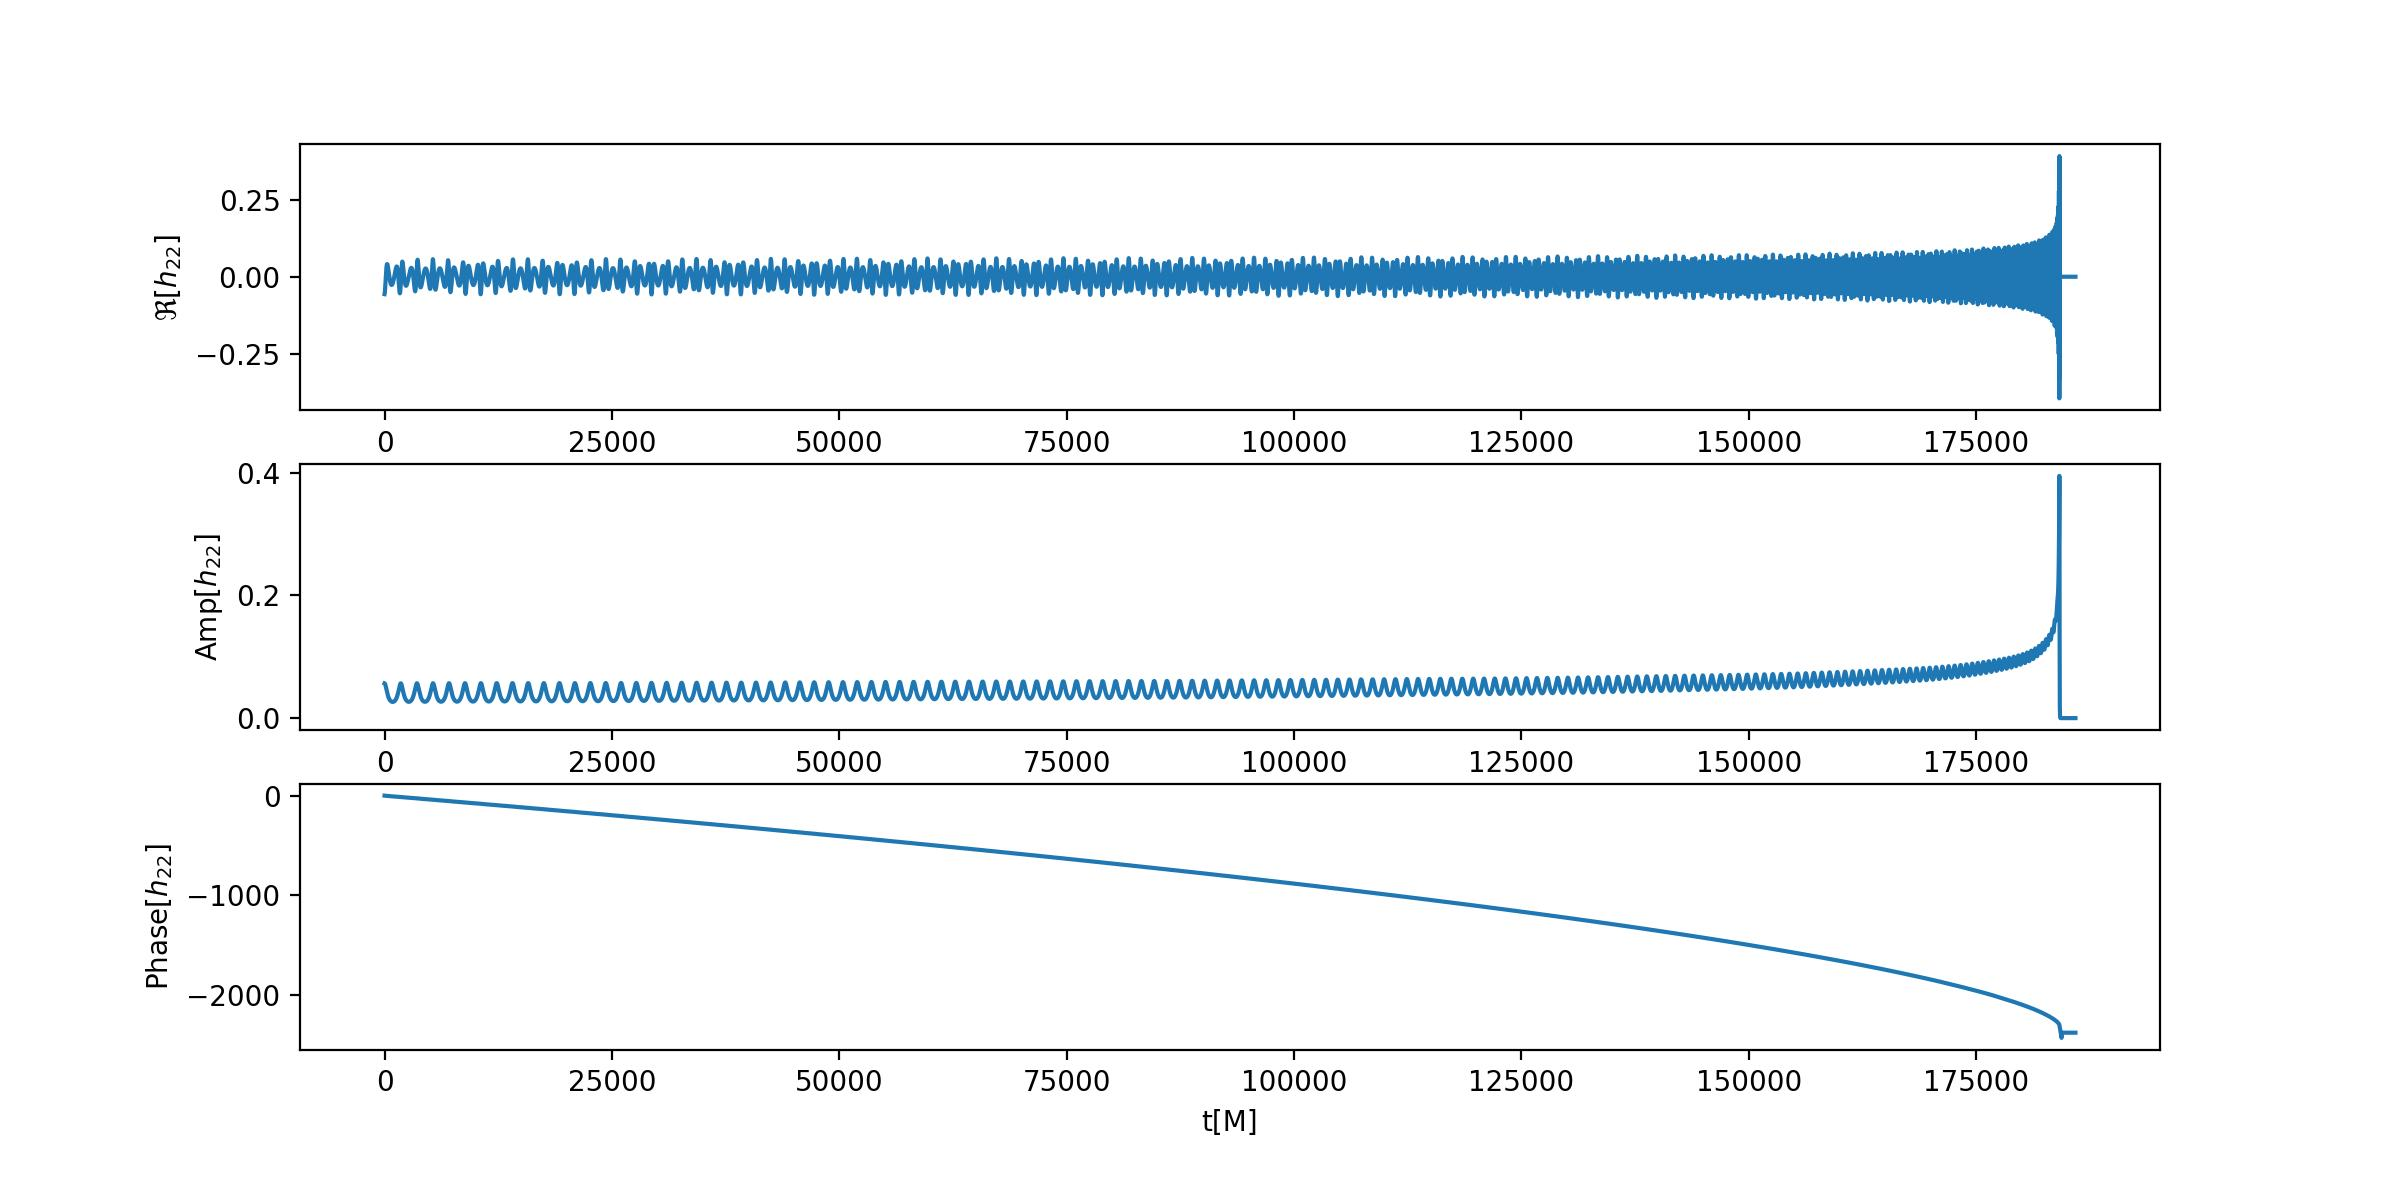
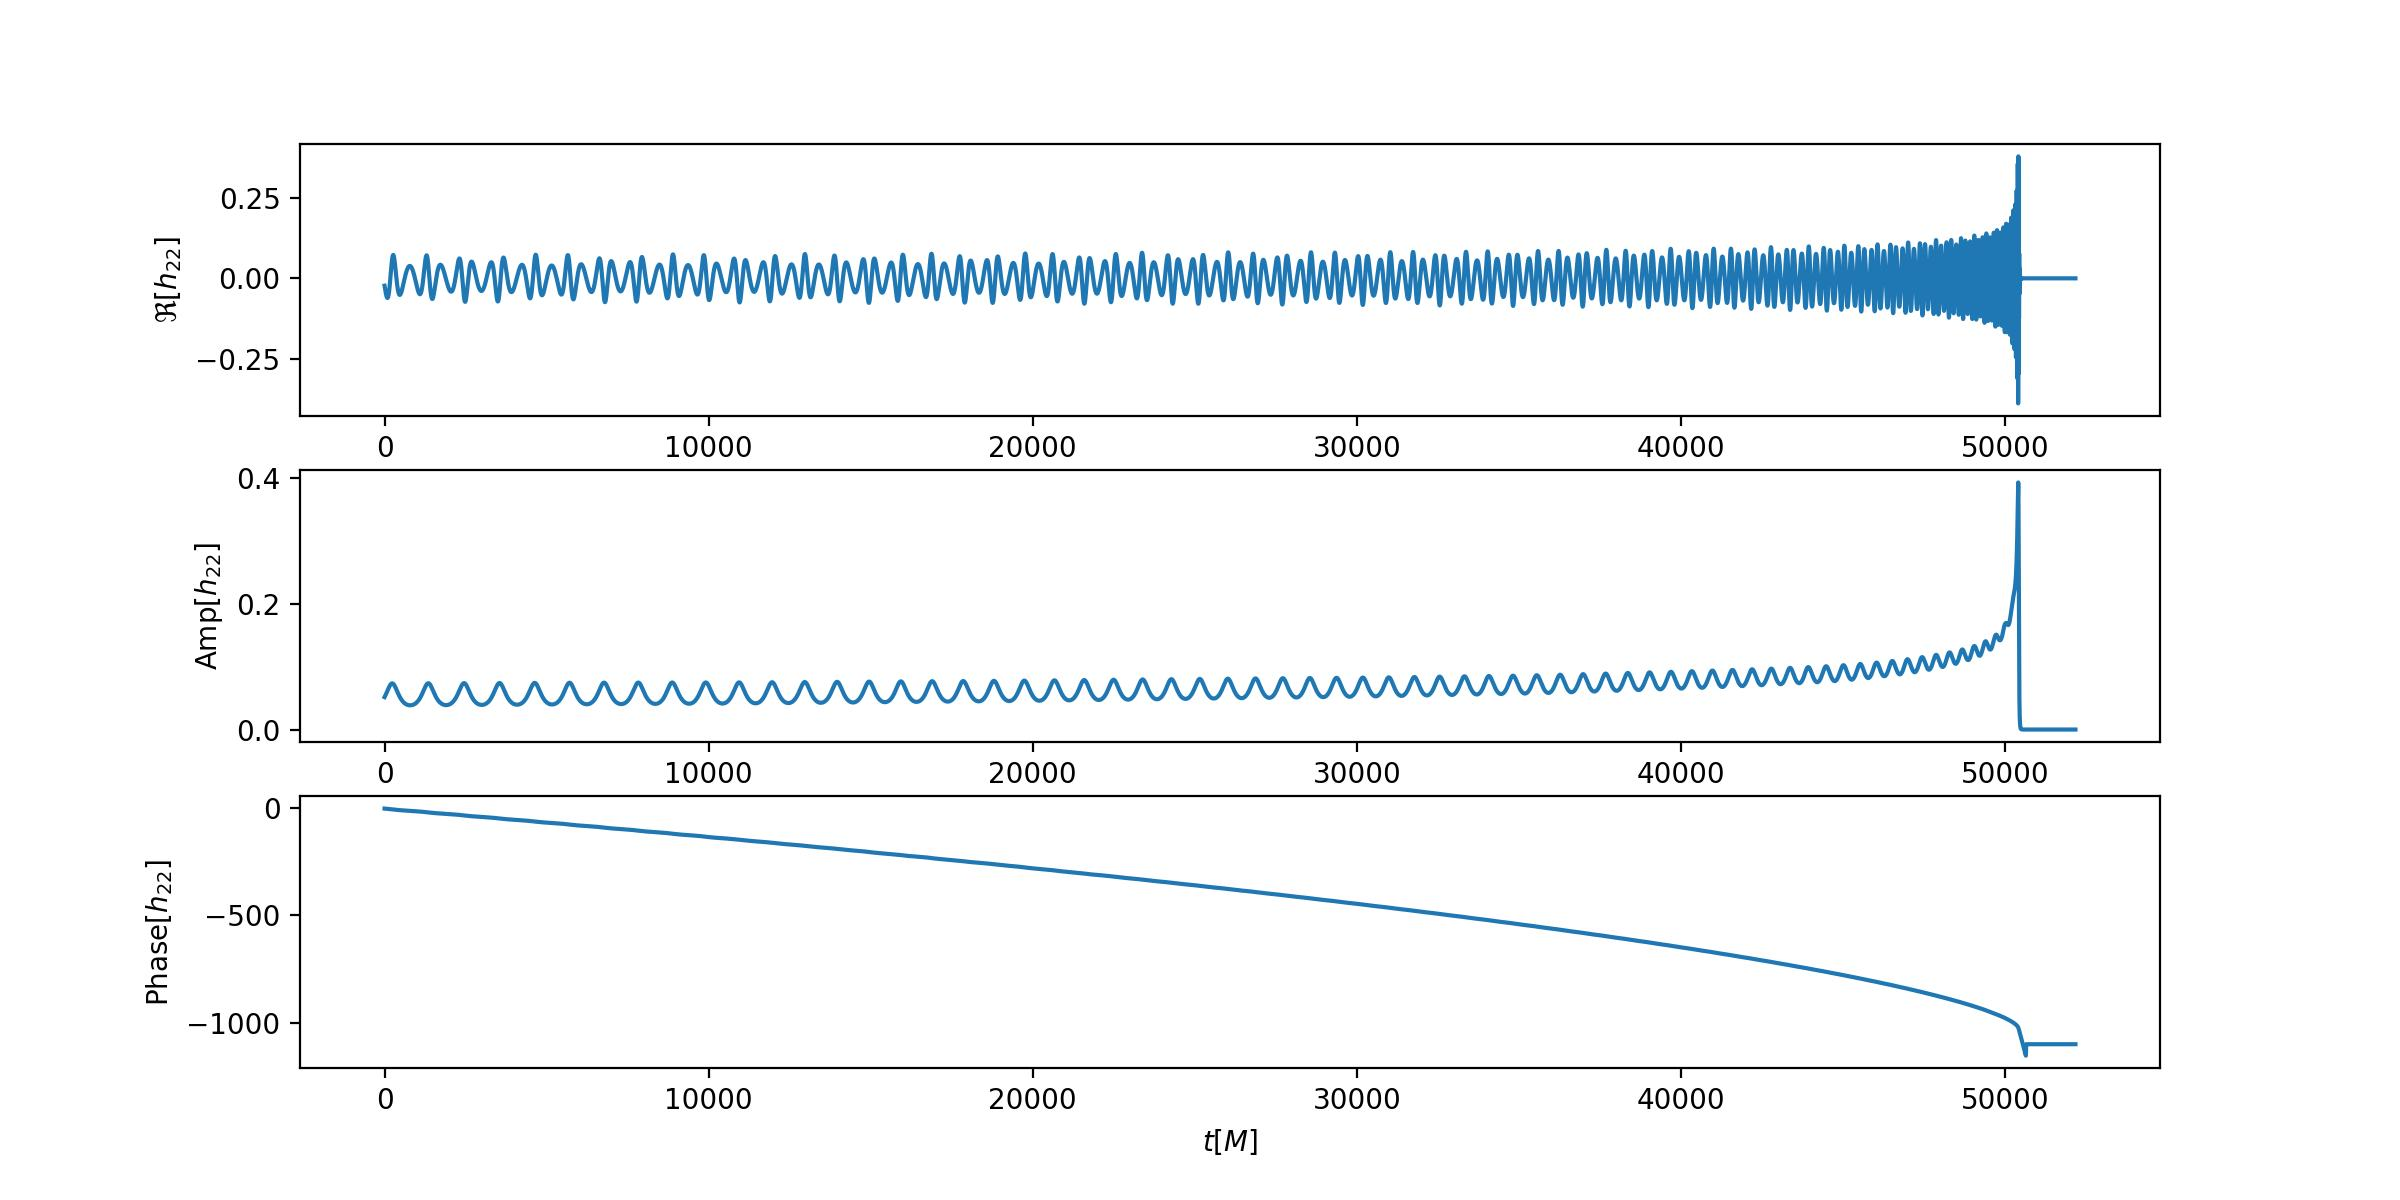
update

diff --git a/README.md b/README.md
@@ -1,4 +1,5 @@
 # pyWaveformGenerator
+
 calculate GW waveform
 
 Installation && compile
@@ -45,12 +46,13 @@ dL = 100
 zeta_rad = 0
 iota_rad = beta_rad = Phic_rad = 0
 fMin = 20
+Mf_ref = 0.003
 waveform, dynamics = calculate_waveform_ep((m1, m2, 
 	chi1x, chi1y, chi1z, 
 	chi2x, chi2y, chi2z, 
 	e0, dL, 
 	zeta_rad, iota_rad, 
-  beta_rad, Phic_rad), fMin, srate=16384, is_coframe=False)
+  beta_rad, Phic_rad), fMin, Mf_ref = Mf_ref, srate=16384, is_coframe=False)
 ```
 
 In this case one have to make sure that one of $\chi_{1x,1y,2x,2y}\neq0$.
@@ -74,11 +76,93 @@ ax2.plot(h22.time, h22.amp)
 ax2.set_ylabel(r'${\rm Amp}[h_{22}]$')
 
 ax3.plot(h22.time, h22.phase)
-ax2.set_ylabel(r'${\rm Phase}[h_{22}]$')
+ax3.set_ylabel(r'${\rm Phase}[h_{22}]$')
 
+ax3.set_xlabel(r'$t[M]$')
 plt.show()
 ```
 
 which will looks like
 
 ![plot](./figures/example.jpg)
+
+## Anomaly and reference frequency
+
+```python
+from pyWaveformGenerator.waveform import calculate_waveform
+m1 = m2 = 10
+chi1x = chi1y = chi1z = 0
+chi2x = chi2y = chi2z = 0
+e0 = 0.3
+dL = 100
+iota_rad = beta_rad = Phic_rad = 0
+zeta_rad = 30 * np.pi/180
+fMin = 20
+Mf_ref = 0.003
+waveform, dynamics = calculate_waveform((m1, m2, 
+	chi1x, chi1y, chi1z, 
+	chi2x, chi2y, chi2z, 
+	e0, dL, 
+	zeta_rad, iota_rad, 
+  beta_rad, Phic_rad), fMin, Mf_ref = Mf_ref)
+```
+
+for spin-precession case (on test)
+
+```python
+from pyWaveformGenerator.waveform import calculate_waveform_ep
+
+q = 1.3
+mtot = 20
+m1 = q * mtot / (1. + q)
+m2 = mtot / (1. + q)
+chi1x = 0.4
+chi1y = chi1z = 0
+chi2y = -0.3
+chi2x = chi2z = 0
+e0 = 0.2
+dL = 100
+zeta_rad = 60 * np.pi/180
+iota_rad = beta_rad = Phic_rad = 0
+fMin = 20
+Mf_ref = 0.002
+waveform, dynamics = calculate_waveform_ep((m1, m2, 
+	chi1x, chi1y, chi1z, 
+	chi2x, chi2y, chi2z, 
+	e0, dL, 
+	zeta_rad, iota_rad, 
+  beta_rad, Phic_rad), fMin, Mf_ref = Mf_ref, srate=16384, is_coframe=False)
+
+```
+
+The waveform looks like
+
+```python
+import matplotlib.pyplot as plt
+
+h22 = waveform.h22
+h21 = waveform.h21
+
+fig = plt.figure(figsize = (12, 6))
+
+ax1 = fig.add_subplot(3, 1, 1)
+ax2 = fig.add_subplot(3, 1, 2)
+ax3 = fig.add_subplot(3, 1, 3)
+
+ax1.plot(h22.time, h22.real)
+ax1.set_ylabel(r'$\Re[h_{22}]$')
+
+ax2.plot(h21.time, h21.real)
+ax2.set_ylabel(r'$\Re[h_{21}]$')
+
+ax3.plot(h22.time, h22.amp)
+ax3.plot(h21.time, h21.amp)
+ax3.set_ylabel(r'${\rm Amp}[h_{2m}]$')
+
+ax3.set_xlabel(r'$t[M]$')
+
+plt.savefig(pwd / 'example2.jpg',dpi = 200)
+plt.show()
+```
+
+![plot](./figures/example2.jpg)
